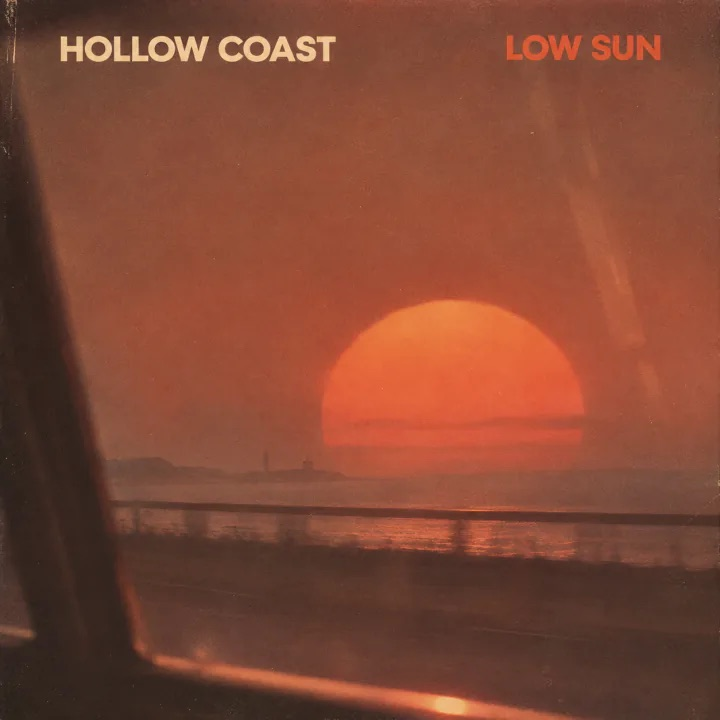
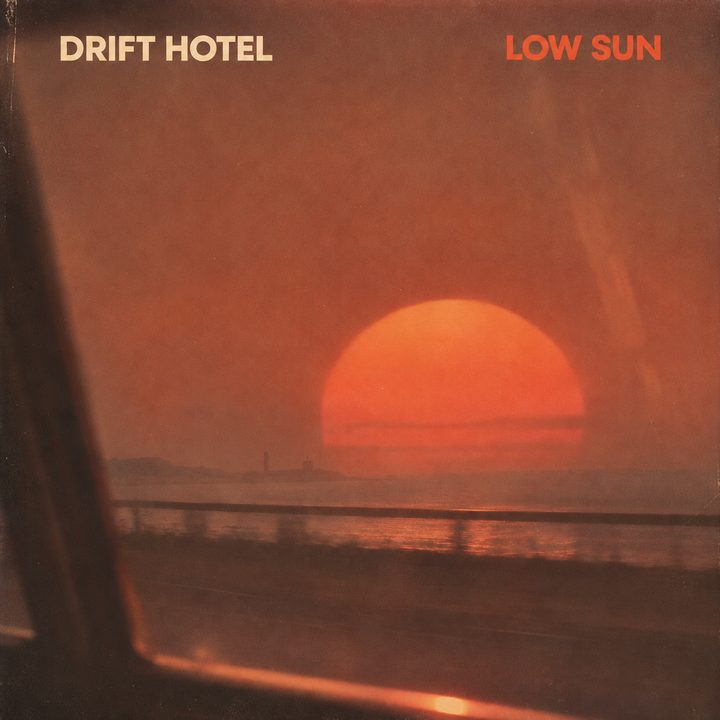
Demo records: Drift Hotel, and Rooftop Season by Tavi Rhodes
Hollow Coast and Juniper Hall are real artists on Apple Music, so the
demo follows the website's renamed set. Low Sun is now by Drift Hotel,
with its cover re-lettered. Rooftop Season by Tavi Rhodes (from the
album Daylight Savings), a pale cover, replaces Overcast, Brightening.
The new names had no matches in Apple Music or MusicBrainz on 16
November 2026.

Changed region(s): [[0.0917, 0.0306, 0.4583, 0.0917]]

diff --git a/iPhoneCompanion/StandByKit/Sources/StandByKit/MockLibrary.swift b/iPhoneCompanion/StandByKit/Sources/StandByKit/MockLibrary.swift
@@ -10,10 +10,12 @@ public struct MockLibrary: Sendable {
     }
 
     /// The website's six invented records, with their covers (16 November 2026).
+    /// Hollow Coast and Juniper Hall turned out to be real artists, so Low Sun
+    /// is now by Drift Hotel, and Rooftop Season replaces Overcast, Brightening.
     public static let standard = MockLibrary(tracks: [
-        TrackMetadata(id: "mock-1", title: "Low Sun", artist: "Hollow Coast", album: "Breakwater", duration: 214, artworkID: "mock-art-low-sun"),
+        TrackMetadata(id: "mock-1", title: "Low Sun", artist: "Drift Hotel", album: "Breakwater", duration: 214, artworkID: "mock-art-low-sun"),
         TrackMetadata(id: "mock-2", title: "Small Hours", artist: "Fen Lights", album: "Lit Windows", duration: 252, artworkID: "mock-art-small-hours"),
-        TrackMetadata(id: "mock-3", title: "Overcast, Brightening", artist: "Juniper Hall", album: "Weather for Walking", duration: 231, artworkID: "mock-art-overcast"),
+        TrackMetadata(id: "mock-3", title: "Rooftop Season", artist: "Tavi Rhodes", album: "Daylight Savings", duration: 188, artworkID: "mock-art-rooftop-season"),
         TrackMetadata(id: "mock-4", title: "Ticket Hall", artist: "Polly Atlas", album: "Concourse", duration: 178, artworkID: "mock-art-ticket-hall"),
         TrackMetadata(id: "mock-5", title: "Tidewater", artist: "Brennan & Hale", album: "Estuary", duration: 306, artworkID: "mock-art-tidewater"),
         TrackMetadata(id: "mock-6", title: "Allotment", artist: "The Small Holdings", album: "Seed Catalogue", duration: 197, artworkID: "mock-art-allotment"),
